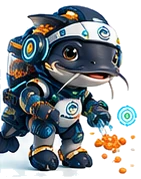
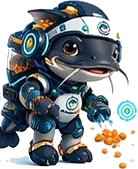
fix(assistant): clear leftover white backgrounds on the Pakoy crops
The hero and dispensing crops kept white sheet background around the figure
and the head mark had a white right edge, all visible in dark mode. Cleared by
a border flood fill, trimmed to content, and updated the intrinsic sizes in
the Mascot component and the asset README.

diff --git a/apps/web/components/assistant/mascot.tsx b/apps/web/components/assistant/mascot.tsx
@@ -24,15 +24,15 @@ export const MASCOT_ALT = "Pakoy, the PakaonAI mascot";
  * the round avatar used wherever the art is too small for a full pose.
  */
 const POSES = {
-	head: { src: "/mascot/pakoy-head.webp", width: 256, height: 256 },
+	head: { src: "/mascot/pakoy-head.webp", width: 254, height: 254 },
 	idle: { src: "/mascot/pakoy-idle.webp", width: 132, height: 173 },
-	dispensing: { src: "/mascot/pakoy-dispensing.webp", width: 141, height: 179 },
+	dispensing: { src: "/mascot/pakoy-dispensing.webp", width: 138, height: 169 },
 	offline: { src: "/mascot/pakoy-offline.webp", width: 132, height: 164 },
 	lowHopper: { src: "/mascot/pakoy-low-hopper.webp", width: 138, height: 168 },
 	wrongToken: { src: "/mascot/pakoy-wrong-token.webp", width: 132, height: 167 },
 	powerFault: { src: "/mascot/pakoy-power-fault.webp", width: 136, height: 167 },
 	firstSetup: { src: "/mascot/pakoy-first-setup.webp", width: 132, height: 167 },
-	hero: { src: "/mascot/pakoy-hero.webp", width: 406, height: 440 },
+	hero: { src: "/mascot/pakoy-hero.webp", width: 370, height: 411 },
 } as const;
 
 export type MascotPose = keyof typeof POSES;

diff --git a/apps/web/public/mascot/README.md b/apps/web/public/mascot/README.md
@@ -14,10 +14,10 @@ versions, the head-only mark and example empty/error states.
 
 | File | Shown as | Size |
 | --- | --- | --- |
-| `pakoy-head.webp` | round avatar: chat header, chat bubbles, alert icons, PWA icon | 256 × 256 |
-| `pakoy-hero.webp` | hero art: the tour's welcome step | 406 × 440 |
+| `pakoy-head.webp` | round avatar: chat header, chat bubbles, alert icons, PWA icon | 254 × 254 |
+| `pakoy-hero.webp` | hero art: the tour's welcome step | 370 × 411 |
 | `pakoy-idle.webp` | online idle: dashboard greeting, empty states, greeting bubble | 132 × 173 |
-| `pakoy-dispensing.webp` | dispensing | 141 × 179 |
+| `pakoy-dispensing.webp` | dispensing | 138 × 169 |
 | `pakoy-offline.webp` | offline page and offline alerts | 132 × 164 |
 | `pakoy-low-hopper.webp` | low-hopper reminder | 138 × 168 |
 | `pakoy-wrong-token.webp` | wrong device token | 132 × 167 |
@@ -58,3 +58,7 @@ python -I scripts/prepare-mascot.py path/to/pakoy-character-sheet.png
 
 Requires Pillow (`pip install pillow`). The script writes straight into
 `public/mascot/`.
+
+The hero and dispensing crops were cleaned afterwards with a flood fill from the
+border (near-white, tolerance 48) and trimmed to content; the head mark lost a
+2 px white edge and was squared (2026-10-28 review).
